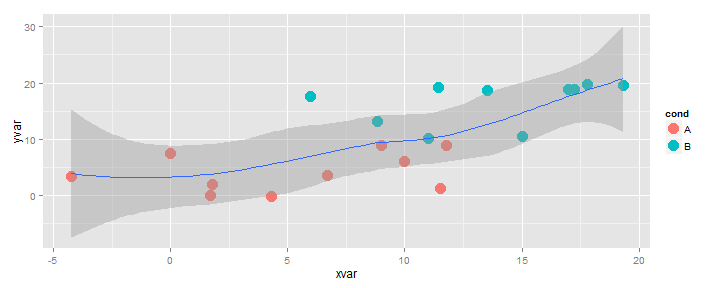
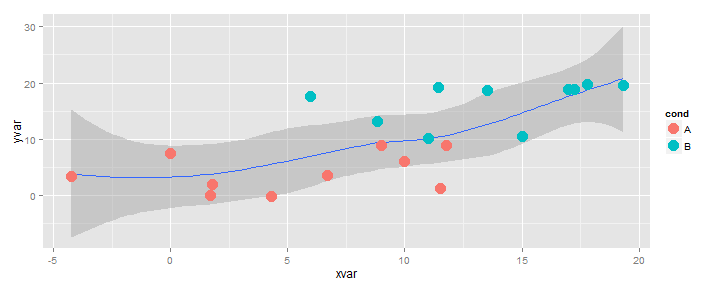
working tooltips and near completion of first draft

diff --git a/index.html b/index.html
@@ -239,13 +239,13 @@ dat &lt;- data.frame(cond = rep(c(&quot;A&quot;, &quot;B&quot;), each=10),
 #    B 19.319909163 19.647899863
 
 g4 &lt;- ggplot(dat, aes(x=xvar, y=yvar)) +
-  geom_point(shape=19, aes(color = cond), size=5) +    # Use hollow circles
-  geom_smooth()
+  geom_smooth() +  #we&#39;ll see why order is important
+  geom_point(shape=19, aes(color = cond), size=5) 
 
 g4
 </code></pre>
 
[2 lines of base64/hex data omitted]
 
 <p>There are lots of ways that we might add a tooltip if that is all we want.  However, I think we will want more than just tooltips, so a full d3-style data bind will be a fine way to achieve this extra functionality.  When we export our graphic, we will get an impercetibly SVG copy of our ggplot2 graphic above.  If you don&#39;t believe it is SVG, left-click on the graphic and Inspect Element.  I told you it was SVG.  If you still don&#39;t believe me, zoom in to 400% and see if you can tell a difference between SVG and png.</p>
 
@@ -261,7 +261,7 @@ cat(saveXML(g4.svg$svg))
 
 <p><svg xmlns="http://www.w3.org/2000/svg" xmlns:xlink="http://www.w3.org/1999/xlink" width="720px" height="288px" viewBox="0 0 720 288" version="1.1">
   <metadata xmlns:gridsvg="http://www.stat.auckland.ac.nz/~paul/R/gridSVG/">
-    <gridsvg:generator name="gridSVG" version="1.3-0" time="2013-08-05 17:13:15"/>
+    <gridsvg:generator name="gridSVG" version="1.3-0" time="2013-08-05 23:00:10"/>
     <gridsvg:argument name="name" value="plot1.svg"/>
     <gridsvg:argument name="exportCoords" value="none"/>
     <gridsvg:argument name="exportMappings" value="none"/>
@@ -336,35 +336,35 @@ cat(saveXML(g4.svg$svg))
                   <polyline id="panel.grid.major.x.polyline.83.1.6" points="639.19,37.28 639.19,273.6" stroke-width="1.06" stroke="rgb(255,255,255)" stroke-dasharray="none" stroke-linecap="butt" stroke-opacity="1" fill="none"/>
                 </g>
               </g>
-              <g id="geom_point.points.66.1" class="points grob gDesc">
-                <use id="geom_point.points.66.1.1" xlink:href="#gridSVG.pch19" x="68.94" y="110.21" width="14.17" height="14.17" transform="translate(-7.09,-7.09)" stroke="rgb(248,118,109)" fill="rgb(248,118,109)" font-size="14.17" stroke-width="0.53" stroke-opacity="1" fill-opacity="1"/>
-                <use id="geom_point.points.66.1.2" xlink:href="#gridSVG.pch19" x="208.95" y="90.5" width="14.17" height="14.17" transform="translate(-7.09,-7.09)" stroke="rgb(248,118,109)" fill="rgb(248,118,109)" font-size="14.17" stroke-width="0.53" stroke-opacity="1" fill-opacity="1"/>
-                <use id="geom_point.points.66.1.3" xlink:href="#gridSVG.pch19" x="270.57" y="89.93" width="14.17" height="14.17" transform="translate(-7.09,-7.09)" stroke="rgb(248,118,109)" fill="rgb(248,118,109)" font-size="14.17" stroke-width="0.53" stroke-opacity="1" fill-opacity="1"/>
-                <use id="geom_point.points.66.1.4" xlink:href="#gridSVG.pch19" x="210.79" y="102.25" width="14.17" height="14.17" transform="translate(-7.09,-7.09)" stroke="rgb(248,118,109)" fill="rgb(248,118,109)" font-size="14.17" stroke-width="0.53" stroke-opacity="1" fill-opacity="1"/>
-                <use id="geom_point.points.66.1.5" xlink:href="#gridSVG.pch19" x="440.21" y="97.37" width="14.17" height="14.17" transform="translate(-7.09,-7.09)" stroke="rgb(248,118,109)" fill="rgb(248,118,109)" font-size="14.17" stroke-width="0.53" stroke-opacity="1" fill-opacity="1"/>
-                <use id="geom_point.points.66.1.6" xlink:href="#gridSVG.pch19" x="325.81" y="110.98" width="14.17" height="14.17" transform="translate(-7.09,-7.09)" stroke="rgb(248,118,109)" fill="rgb(248,118,109)" font-size="14.17" stroke-width="0.53" stroke-opacity="1" fill-opacity="1"/>
-                <use id="geom_point.points.66.1.7" xlink:href="#gridSVG.pch19" x="169.02" y="133.28" width="14.17" height="14.17" transform="translate(-7.09,-7.09)" stroke="rgb(248,118,109)" fill="rgb(248,118,109)" font-size="14.17" stroke-width="0.53" stroke-opacity="1" fill-opacity="1"/>
-                <use id="geom_point.points.66.1.8" xlink:href="#gridSVG.pch19" x="403.39" y="125.47" width="14.17" height="14.17" transform="translate(-7.09,-7.09)" stroke="rgb(248,118,109)" fill="rgb(248,118,109)" font-size="14.17" stroke-width="0.53" stroke-opacity="1" fill-opacity="1"/>
-                <use id="geom_point.points.66.1.9" xlink:href="#gridSVG.pch19" x="380.72" y="141.28" width="14.17" height="14.17" transform="translate(-7.09,-7.09)" stroke="rgb(248,118,109)" fill="rgb(248,118,109)" font-size="14.17" stroke-width="0.53" stroke-opacity="1" fill-opacity="1"/>
-                <use id="geom_point.points.66.1.10" xlink:href="#gridSVG.pch19" x="445.61" y="141.23" width="14.17" height="14.17" transform="translate(-7.09,-7.09)" stroke="rgb(248,118,109)" fill="rgb(248,118,109)" font-size="14.17" stroke-width="0.53" stroke-opacity="1" fill-opacity="1"/>
-                <use id="geom_point.points.66.1.11" xlink:href="#gridSVG.pch19" x="376.79" y="165.54" width="14.17" height="14.17" transform="translate(-7.09,-7.09)" stroke="rgb(0,191,196)" fill="rgb(0,191,196)" font-size="14.17" stroke-width="0.53" stroke-opacity="1" fill-opacity="1"/>
-                <use id="geom_point.points.66.1.12" xlink:href="#gridSVG.pch19" x="309.4" y="190.81" width="14.17" height="14.17" transform="translate(-7.09,-7.09)" stroke="rgb(0,191,196)" fill="rgb(0,191,196)" font-size="14.17" stroke-width="0.53" stroke-opacity="1" fill-opacity="1"/>
-                <use id="geom_point.points.66.1.13" xlink:href="#gridSVG.pch19" x="522.45" y="150.09" width="14.17" height="14.17" transform="translate(-7.09,-7.09)" stroke="rgb(0,191,196)" fill="rgb(0,191,196)" font-size="14.17" stroke-width="0.53" stroke-opacity="1" fill-opacity="1"/>
-                <use id="geom_point.points.66.1.14" xlink:href="#gridSVG.pch19" x="427.22" y="148.12" width="14.17" height="14.17" transform="translate(-7.09,-7.09)" stroke="rgb(0,191,196)" fill="rgb(0,191,196)" font-size="14.17" stroke-width="0.53" stroke-opacity="1" fill-opacity="1"/>
-                <use id="geom_point.points.66.1.15" xlink:href="#gridSVG.pch19" x="487.37" y="196.7" width="14.17" height="14.17" transform="translate(-7.09,-7.09)" stroke="rgb(0,191,196)" fill="rgb(0,191,196)" font-size="14.17" stroke-width="0.53" stroke-opacity="1" fill-opacity="1"/>
-                <use id="geom_point.points.66.1.16" xlink:href="#gridSVG.pch19" x="437.82" y="199.33" width="14.17" height="14.17" transform="translate(-7.09,-7.09)" stroke="rgb(0,191,196)" fill="rgb(0,191,196)" font-size="14.17" stroke-width="0.53" stroke-opacity="1" fill-opacity="1"/>
-                <use id="geom_point.points.66.1.17" xlink:href="#gridSVG.pch19" x="568.11" y="197.56" width="14.17" height="14.17" transform="translate(-7.09,-7.09)" stroke="rgb(0,191,196)" fill="rgb(0,191,196)" font-size="14.17" stroke-width="0.53" stroke-opacity="1" fill-opacity="1"/>
-                <use id="geom_point.points.66.1.18" xlink:href="#gridSVG.pch19" x="573.83" y="198.17" width="14.17" height="14.17" transform="translate(-7.09,-7.09)" stroke="rgb(0,191,196)" fill="rgb(0,191,196)" font-size="14.17" stroke-width="0.53" stroke-opacity="1" fill-opacity="1"/>
-                <use id="geom_point.points.66.1.19" xlink:href="#gridSVG.pch19" x="587.31" y="202.6" width="14.17" height="14.17" transform="translate(-7.09,-7.09)" stroke="rgb(0,191,196)" fill="rgb(0,191,196)" font-size="14.17" stroke-width="0.53" stroke-opacity="1" fill-opacity="1"/>
-                <use id="geom_point.points.66.1.20" xlink:href="#gridSVG.pch19" x="623.2" y="202.2" width="14.17" height="14.17" transform="translate(-7.09,-7.09)" stroke="rgb(0,191,196)" fill="rgb(0,191,196)" font-size="14.17" stroke-width="0.53" stroke-opacity="1" fill-opacity="1"/>
+              <g id="smooths.gTree.69.1" class="gTree grob gDesc">
+                <g id="geom_ribbon.polygon.66.1" class="polygon grob gDesc">
+                  <polygon id="geom_ribbon.polygon.66.1.1" points="68.94,177.15 75.95,172.15 82.97,167.52 89.98,163.26 97,159.37 104.02,155.86 111.03,152.73 118.05,149.98 125.06,147.61 132.08,145.62 139.1,143.99 146.11,142.72 153.13,141.78 160.14,141.15 167.16,140.79 174.18,140.69 181.19,140.8 188.21,141.09 195.22,141.53 202.24,142.09 209.26,142.75 216.27,143.47 223.29,144.26 230.3,145.21 237.32,146.38 244.34,147.82 251.35,149.52 258.37,151.41 265.39,153.38 272.4,155.26 279.42,156.88 286.43,158.22 293.45,159.33 300.47,160.26 307.48,161.09 314.5,161.88 321.51,162.7 328.53,163.6 335.55,164.62 342.56,165.76 349.58,166.99 356.59,168.24 363.61,169.45 370.63,170.52 377.64,171.35 384.66,171.47 391.67,171.32 398.69,171.55 405.71,172.21 412.72,172.59 419.74,172.95 426.75,173.71 433.77,174.97 440.79,176.54 447.8,178.25 454.82,180.3 461.83,182.92 468.85,186.07 475.87,189.47 482.88,192.65 489.9,195.18 496.91,197.44 503.93,199.63 510.95,201.76 517.96,203.84 524.98,205.89 531.99,207.93 539.01,209.98 546.03,212.05 553.04,214.19 560.06,216.45 567.08,218.93 574.09,221.75 581.11,225.15 588.12,229.32 595.14,234.35 602.16,240.26 609.17,247.02 616.19,254.57 623.2,262.86 623.2,154.69 616.19,158.39 609.17,161.38 602.16,163.57 595.14,164.91 588.12,165.37 581.11,164.96 574.09,163.75 567.08,161.85 560.06,159.44 553.04,156.68 546.03,153.71 539.01,150.62 531.99,147.49 524.98,144.39 517.96,141.38 510.95,138.52 503.93,135.86 496.91,133.45 489.9,131.37 482.88,129.76 475.87,128.81 468.85,128.13 461.83,127.36 454.82,126.29 447.8,125 440.79,123.77 433.77,123 426.75,122.5 419.74,121.84 412.72,120.86 405.71,119.68 398.69,118.8 391.67,118.45 384.66,117.89 377.64,116.79 370.63,115.4 363.61,114.06 356.59,112.69 349.58,111.22 342.56,109.6 335.55,107.79 328.53,105.8 321.51,103.64 314.5,101.37 307.48,99.07 300.47,96.82 293.45,94.72 286.43,92.87 279.42,91.34 272.4,90.2 265.39,89.4 258.37,88.64 251.35,87.8 244.34,86.83 237.32,85.72 230.3,84.52 223.29,83.33 216.27,82.28 209.26,81.49 202.24,80.91 195.22,80.36 188.21,79.8 181.19,79.21 174.18,78.57 167.16,77.85 160.14,77.01 153.13,76.02 146.11,74.86 139.1,73.51 132.08,71.96 125.06,70.18 118.05,68.17 111.03,65.94 104.02,63.49 97,60.81 89.98,57.92 82.97,54.82 75.95,51.52 68.94,48.02" fill="rgb(153,153,153)" stroke="none" stroke-width="1.06" stroke-dasharray="none" stroke-opacity="0" fill-opacity="0.4"/>
+                </g>
+                <g id="GRID.polyline.67.1" class="polyline grob gDesc">
+                  <polyline id="GRID.polyline.67.1.1" points="68.94,112.59 75.95,111.84 82.97,111.17 89.98,110.59 97,110.09 104.02,109.68 111.03,109.34 118.05,109.08 125.06,108.9 132.08,108.79 139.1,108.75 146.11,108.79 153.13,108.9 160.14,109.08 167.16,109.32 174.18,109.63 181.19,110.01 188.21,110.44 195.22,110.94 202.24,111.5 209.26,112.12 216.27,112.87 223.29,113.8 230.3,114.87 237.32,116.05 244.34,117.33 251.35,118.66 258.37,120.02 265.39,121.39 272.4,122.73 279.42,124.11 286.43,125.55 293.45,127.03 300.47,128.54 307.48,130.08 314.5,131.62 321.51,133.17 328.53,134.7 335.55,136.21 342.56,137.68 349.58,139.1 356.59,140.46 363.61,141.75 370.63,142.96 377.64,144.07 384.66,144.68 391.67,144.89 398.69,145.17 405.71,145.94 412.72,146.72 419.74,147.4 426.75,148.11 433.77,148.98 440.79,150.15 447.8,151.62 454.82,153.3 461.83,155.14 468.85,157.1 475.87,159.14 482.88,161.21 489.9,163.28 496.91,165.45 503.93,167.74 510.95,170.14 517.96,172.61 524.98,175.14 531.99,177.71 539.01,180.3 546.03,182.88 553.04,185.44 560.06,187.95 567.08,190.39 574.09,192.75 581.11,195.05 588.12,197.35 595.14,199.63 602.16,201.91 609.17,204.2 616.19,206.48 623.2,208.77" stroke="rgb(51,102,255)" fill="none" stroke-width="1.06" stroke-dasharray="none" stroke-linecap="butt" stroke-linejoin="round" stroke-miterlimit="1" stroke-opacity="1" fill-opacity="1"/>
+                </g>
               </g>
-              <g id="smooths.gTree.71.1" class="gTree grob gDesc">
-                <g id="geom_ribbon.polygon.68.1" class="polygon grob gDesc">
-                  <polygon id="geom_ribbon.polygon.68.1.1" points="68.94,177.15 75.95,172.15 82.97,167.52 89.98,163.26 97,159.37 104.02,155.86 111.03,152.73 118.05,149.98 125.06,147.61 132.08,145.62 139.1,143.99 146.11,142.72 153.13,141.78 160.14,141.15 167.16,140.79 174.18,140.69 181.19,140.8 188.21,141.09 195.22,141.53 202.24,142.09 209.26,142.75 216.27,143.47 223.29,144.26 230.3,145.21 237.32,146.38 244.34,147.82 251.35,149.52 258.37,151.41 265.39,153.38 272.4,155.26 279.42,156.88 286.43,158.22 293.45,159.33 300.47,160.26 307.48,161.09 314.5,161.88 321.51,162.7 328.53,163.6 335.55,164.62 342.56,165.76 349.58,166.99 356.59,168.24 363.61,169.45 370.63,170.52 377.64,171.35 384.66,171.47 391.67,171.32 398.69,171.55 405.71,172.21 412.72,172.59 419.74,172.95 426.75,173.71 433.77,174.97 440.79,176.54 447.8,178.25 454.82,180.3 461.83,182.92 468.85,186.07 475.87,189.47 482.88,192.65 489.9,195.18 496.91,197.44 503.93,199.63 510.95,201.76 517.96,203.84 524.98,205.89 531.99,207.93 539.01,209.98 546.03,212.05 553.04,214.19 560.06,216.45 567.08,218.93 574.09,221.75 581.11,225.15 588.12,229.32 595.14,234.35 602.16,240.26 609.17,247.02 616.19,254.57 623.2,262.86 623.2,154.69 616.19,158.39 609.17,161.38 602.16,163.57 595.14,164.91 588.12,165.37 581.11,164.96 574.09,163.75 567.08,161.85 560.06,159.44 553.04,156.68 546.03,153.71 539.01,150.62 531.99,147.49 524.98,144.39 517.96,141.38 510.95,138.52 503.93,135.86 496.91,133.45 489.9,131.37 482.88,129.76 475.87,128.81 468.85,128.13 461.83,127.36 454.82,126.29 447.8,125 440.79,123.77 433.77,123 426.75,122.5 419.74,121.84 412.72,120.86 405.71,119.68 398.69,118.8 391.67,118.45 384.66,117.89 377.64,116.79 370.63,115.4 363.61,114.06 356.59,112.69 349.58,111.22 342.56,109.6 335.55,107.79 328.53,105.8 321.51,103.64 314.5,101.37 307.48,99.07 300.47,96.82 293.45,94.72 286.43,92.87 279.42,91.34 272.4,90.2 265.39,89.4 258.37,88.64 251.35,87.8 244.34,86.83 237.32,85.72 230.3,84.52 223.29,83.33 216.27,82.28 209.26,81.49 202.24,80.91 195.22,80.36 188.21,79.8 181.19,79.21 174.18,78.57 167.16,77.85 160.14,77.01 153.13,76.02 146.11,74.86 139.1,73.51 132.08,71.96 125.06,70.18 118.05,68.17 111.03,65.94 104.02,63.49 97,60.81 89.98,57.92 82.97,54.82 75.95,51.52 68.94,48.02" fill="rgb(153,153,153)" stroke="none" stroke-width="1.06" stroke-dasharray="none" stroke-opacity="0" fill-opacity="0.4"/>
-                </g>
-                <g id="GRID.polyline.69.1" class="polyline grob gDesc">
-                  <polyline id="GRID.polyline.69.1.1" points="68.94,112.59 75.95,111.84 82.97,111.17 89.98,110.59 97,110.09 104.02,109.68 111.03,109.34 118.05,109.08 125.06,108.9 132.08,108.79 139.1,108.75 146.11,108.79 153.13,108.9 160.14,109.08 167.16,109.32 174.18,109.63 181.19,110.01 188.21,110.44 195.22,110.94 202.24,111.5 209.26,112.12 216.27,112.87 223.29,113.8 230.3,114.87 237.32,116.05 244.34,117.33 251.35,118.66 258.37,120.02 265.39,121.39 272.4,122.73 279.42,124.11 286.43,125.55 293.45,127.03 300.47,128.54 307.48,130.08 314.5,131.62 321.51,133.17 328.53,134.7 335.55,136.21 342.56,137.68 349.58,139.1 356.59,140.46 363.61,141.75 370.63,142.96 377.64,144.07 384.66,144.68 391.67,144.89 398.69,145.17 405.71,145.94 412.72,146.72 419.74,147.4 426.75,148.11 433.77,148.98 440.79,150.15 447.8,151.62 454.82,153.3 461.83,155.14 468.85,157.1 475.87,159.14 482.88,161.21 489.9,163.28 496.91,165.45 503.93,167.74 510.95,170.14 517.96,172.61 524.98,175.14 531.99,177.71 539.01,180.3 546.03,182.88 553.04,185.44 560.06,187.95 567.08,190.39 574.09,192.75 581.11,195.05 588.12,197.35 595.14,199.63 602.16,201.91 609.17,204.2 616.19,206.48 623.2,208.77" stroke="rgb(51,102,255)" fill="none" stroke-width="1.06" stroke-dasharray="none" stroke-linecap="butt" stroke-linejoin="round" stroke-miterlimit="1" stroke-opacity="1" fill-opacity="1"/>
-                </g>
+              <g id="geom_point.points.71.1" class="points grob gDesc">
+                <use id="geom_point.points.71.1.1" xlink:href="#gridSVG.pch19" x="68.94" y="110.21" width="14.17" height="14.17" transform="translate(-7.09,-7.09)" stroke="rgb(248,118,109)" fill="rgb(248,118,109)" font-size="14.17" stroke-width="0.53" stroke-opacity="1" fill-opacity="1"/>
+                <use id="geom_point.points.71.1.2" xlink:href="#gridSVG.pch19" x="208.95" y="90.5" width="14.17" height="14.17" transform="translate(-7.09,-7.09)" stroke="rgb(248,118,109)" fill="rgb(248,118,109)" font-size="14.17" stroke-width="0.53" stroke-opacity="1" fill-opacity="1"/>
+                <use id="geom_point.points.71.1.3" xlink:href="#gridSVG.pch19" x="270.57" y="89.93" width="14.17" height="14.17" transform="translate(-7.09,-7.09)" stroke="rgb(248,118,109)" fill="rgb(248,118,109)" font-size="14.17" stroke-width="0.53" stroke-opacity="1" fill-opacity="1"/>
+                <use id="geom_point.points.71.1.4" xlink:href="#gridSVG.pch19" x="210.79" y="102.25" width="14.17" height="14.17" transform="translate(-7.09,-7.09)" stroke="rgb(248,118,109)" fill="rgb(248,118,109)" font-size="14.17" stroke-width="0.53" stroke-opacity="1" fill-opacity="1"/>
+                <use id="geom_point.points.71.1.5" xlink:href="#gridSVG.pch19" x="440.21" y="97.37" width="14.17" height="14.17" transform="translate(-7.09,-7.09)" stroke="rgb(248,118,109)" fill="rgb(248,118,109)" font-size="14.17" stroke-width="0.53" stroke-opacity="1" fill-opacity="1"/>
+                <use id="geom_point.points.71.1.6" xlink:href="#gridSVG.pch19" x="325.81" y="110.98" width="14.17" height="14.17" transform="translate(-7.09,-7.09)" stroke="rgb(248,118,109)" fill="rgb(248,118,109)" font-size="14.17" stroke-width="0.53" stroke-opacity="1" fill-opacity="1"/>
+                <use id="geom_point.points.71.1.7" xlink:href="#gridSVG.pch19" x="169.02" y="133.28" width="14.17" height="14.17" transform="translate(-7.09,-7.09)" stroke="rgb(248,118,109)" fill="rgb(248,118,109)" font-size="14.17" stroke-width="0.53" stroke-opacity="1" fill-opacity="1"/>
+                <use id="geom_point.points.71.1.8" xlink:href="#gridSVG.pch19" x="403.39" y="125.47" width="14.17" height="14.17" transform="translate(-7.09,-7.09)" stroke="rgb(248,118,109)" fill="rgb(248,118,109)" font-size="14.17" stroke-width="0.53" stroke-opacity="1" fill-opacity="1"/>
+                <use id="geom_point.points.71.1.9" xlink:href="#gridSVG.pch19" x="380.72" y="141.28" width="14.17" height="14.17" transform="translate(-7.09,-7.09)" stroke="rgb(248,118,109)" fill="rgb(248,118,109)" font-size="14.17" stroke-width="0.53" stroke-opacity="1" fill-opacity="1"/>
+                <use id="geom_point.points.71.1.10" xlink:href="#gridSVG.pch19" x="445.61" y="141.23" width="14.17" height="14.17" transform="translate(-7.09,-7.09)" stroke="rgb(248,118,109)" fill="rgb(248,118,109)" font-size="14.17" stroke-width="0.53" stroke-opacity="1" fill-opacity="1"/>
+                <use id="geom_point.points.71.1.11" xlink:href="#gridSVG.pch19" x="376.79" y="165.54" width="14.17" height="14.17" transform="translate(-7.09,-7.09)" stroke="rgb(0,191,196)" fill="rgb(0,191,196)" font-size="14.17" stroke-width="0.53" stroke-opacity="1" fill-opacity="1"/>
+                <use id="geom_point.points.71.1.12" xlink:href="#gridSVG.pch19" x="309.4" y="190.81" width="14.17" height="14.17" transform="translate(-7.09,-7.09)" stroke="rgb(0,191,196)" fill="rgb(0,191,196)" font-size="14.17" stroke-width="0.53" stroke-opacity="1" fill-opacity="1"/>
+                <use id="geom_point.points.71.1.13" xlink:href="#gridSVG.pch19" x="522.45" y="150.09" width="14.17" height="14.17" transform="translate(-7.09,-7.09)" stroke="rgb(0,191,196)" fill="rgb(0,191,196)" font-size="14.17" stroke-width="0.53" stroke-opacity="1" fill-opacity="1"/>
+                <use id="geom_point.points.71.1.14" xlink:href="#gridSVG.pch19" x="427.22" y="148.12" width="14.17" height="14.17" transform="translate(-7.09,-7.09)" stroke="rgb(0,191,196)" fill="rgb(0,191,196)" font-size="14.17" stroke-width="0.53" stroke-opacity="1" fill-opacity="1"/>
+                <use id="geom_point.points.71.1.15" xlink:href="#gridSVG.pch19" x="487.37" y="196.7" width="14.17" height="14.17" transform="translate(-7.09,-7.09)" stroke="rgb(0,191,196)" fill="rgb(0,191,196)" font-size="14.17" stroke-width="0.53" stroke-opacity="1" fill-opacity="1"/>
+                <use id="geom_point.points.71.1.16" xlink:href="#gridSVG.pch19" x="437.82" y="199.33" width="14.17" height="14.17" transform="translate(-7.09,-7.09)" stroke="rgb(0,191,196)" fill="rgb(0,191,196)" font-size="14.17" stroke-width="0.53" stroke-opacity="1" fill-opacity="1"/>
+                <use id="geom_point.points.71.1.17" xlink:href="#gridSVG.pch19" x="568.11" y="197.56" width="14.17" height="14.17" transform="translate(-7.09,-7.09)" stroke="rgb(0,191,196)" fill="rgb(0,191,196)" font-size="14.17" stroke-width="0.53" stroke-opacity="1" fill-opacity="1"/>
+                <use id="geom_point.points.71.1.18" xlink:href="#gridSVG.pch19" x="573.83" y="198.17" width="14.17" height="14.17" transform="translate(-7.09,-7.09)" stroke="rgb(0,191,196)" fill="rgb(0,191,196)" font-size="14.17" stroke-width="0.53" stroke-opacity="1" fill-opacity="1"/>
+                <use id="geom_point.points.71.1.19" xlink:href="#gridSVG.pch19" x="587.31" y="202.6" width="14.17" height="14.17" transform="translate(-7.09,-7.09)" stroke="rgb(0,191,196)" fill="rgb(0,191,196)" font-size="14.17" stroke-width="0.53" stroke-opacity="1" fill-opacity="1"/>
+                <use id="geom_point.points.71.1.20" xlink:href="#gridSVG.pch19" x="623.2" y="202.2" width="14.17" height="14.17" transform="translate(-7.09,-7.09)" stroke="rgb(0,191,196)" fill="rgb(0,191,196)" font-size="14.17" stroke-width="0.53" stroke-opacity="1" fill-opacity="1"/>
               </g>
             </g>
           </g>
@@ -605,8 +605,8 @@ cat(saveXML(g4.svg$svg))
   ..$ xvar: num [1:20] -4.25 1.7 4.32 1.78 11.54 &hellip;
   ..$ yvar: num [1:20] 3.47316 0.00594 -0.09425 2.07281 1.21544 &hellip;
  $ layers     :List of 2
-  ..$ :Classes &#39;proto&#39;, &#39;environment&#39; <environment: 0x0000000009526f20> 
-  ..$ :Classes &#39;proto&#39;, &#39;environment&#39; <environment: 0x00000000095f7598> 
+  ..$ :Classes &#39;proto&#39;, &#39;environment&#39; <environment: 0x0000000008e396b0> 
+  ..$ :Classes &#39;proto&#39;, &#39;environment&#39; <environment: 0x0000000008f09b30> 
  $ scales     :Reference class &#39;Scales&#39; [package &ldquo;ggplot2&rdquo;] with 1 fields
   ..$ scales: list()
   ..and 21 methods, of which 9 are possibly relevant:
@@ -677,25 +677,42 @@ cond   xvar     yvar
  scatterPoints = d3.select(".points").selectAll("use");
  scatterPoints.data(dataToBind) </script>
 
+<pre><code class="r">cat(&#39;&lt;script&gt;\n&#39;,
+&#39;scatterPoints  
+    .on(&quot;mouseover&quot;, function(d) {      
+      //Create the tooltip label
+      d3.select(this.parentNode).append(&quot;text&quot;)
+        .attr(&quot;id&quot;,&quot;tooltip&quot;)
+        .attr(&quot;x&quot;,d3.select(this).attr(&quot;x&quot;))
+        .attr(&quot;y&quot;,-d3.select(this).attr(&quot;y&quot;))      
+        .attr(&quot;dy&quot;,&quot;0.35em&quot;)
+        .attr(&quot;transform&quot;,&quot;scale(1,-1)&quot;)
+        .text(&quot;x:&quot; + d.value.xvar + &quot; | y:&quot; + d.value.yvar);
+    })              
+    .on(&quot;mouseout&quot;, function(d) {       
+        d3.select(&quot;#tooltip&quot;).remove();  
+    });&#39;,
+&#39;&lt;/script&gt;&#39;
+)
+</code></pre>
 
 <script>
-scatterPoints  
+ scatterPoints  
     .on("mouseover", function(d) {      
       //Create the tooltip label
-      d3.select(this.parentNode).append("rect")
+      d3.select(this.parentNode).append("text")
         .attr("id","tooltip")
         .attr("x",d3.select(this).attr("x"))
-        .attr("y",d3.select(this).attr("y"))
-        .attr("width",10)
-        .attr("height",10)
-        .attr("fill","blue");
-        //.attr("text-anchor", "middle")
-        //.text(d);
+        .attr("y",-d3.select(this).attr("y"))      
+        .attr("dy","0.35em")
+        .attr("transform","scale(1,-1)")
+        .text("x:" + d.value.xvar + " | y:" + d.value.yvar);
     })              
     .on("mouseout", function(d) {       
         d3.select("#tooltip").remove();  
-    });
-</script>
+    }); </script>
+
+<p>Not perfect, but I think our progress is admirable. We can save the fancier tooltips and more interactivity for later.</p>
 
 </body>
 

diff --git a/index.md b/index.md
@@ -63,8 +63,8 @@ dat <- data.frame(cond = rep(c("A", "B"), each=10),
 #    B 19.319909163 19.647899863
 
 g4 <- ggplot(dat, aes(x=xvar, y=yvar)) +
-  geom_point(shape=19, aes(color = cond), size=5) +    # Use hollow circles
-  geom_smooth()
+  geom_smooth() +  #we'll see why order is important
+  geom_point(shape=19, aes(color = cond), size=5) 
 
 g4
 ```
@@ -88,7 +88,7 @@ cat(saveXML(g4.svg$svg))
 
 <svg xmlns="http://www.w3.org/2000/svg" xmlns:xlink="http://www.w3.org/1999/xlink" width="720px" height="288px" viewBox="0 0 720 288" version="1.1">
   <metadata xmlns:gridsvg="http://www.stat.auckland.ac.nz/~paul/R/gridSVG/">
-    <gridsvg:generator name="gridSVG" version="1.3-0" time="2013-08-05 17:13:15"/>
+    <gridsvg:generator name="gridSVG" version="1.3-0" time="2013-08-05 23:00:10"/>
     <gridsvg:argument name="name" value="plot1.svg"/>
     <gridsvg:argument name="exportCoords" value="none"/>
     <gridsvg:argument name="exportMappings" value="none"/>
@@ -163,35 +163,35 @@ cat(saveXML(g4.svg$svg))
                   <polyline id="panel.grid.major.x.polyline.83.1.6" points="639.19,37.28 639.19,273.6" stroke-width="1.06" stroke="rgb(255,255,255)" stroke-dasharray="none" stroke-linecap="butt" stroke-opacity="1" fill="none"/>
                 </g>
               </g>
-              <g id="geom_point.points.66.1" class="points grob gDesc">
-                <use id="geom_point.points.66.1.1" xlink:href="#gridSVG.pch19" x="68.94" y="110.21" width="14.17" height="14.17" transform="translate(-7.09,-7.09)" stroke="rgb(248,118,109)" fill="rgb(248,118,109)" font-size="14.17" stroke-width="0.53" stroke-opacity="1" fill-opacity="1"/>
-                <use id="geom_point.points.66.1.2" xlink:href="#gridSVG.pch19" x="208.95" y="90.5" width="14.17" height="14.17" transform="translate(-7.09,-7.09)" stroke="rgb(248,118,109)" fill="rgb(248,118,109)" font-size="14.17" stroke-width="0.53" stroke-opacity="1" fill-opacity="1"/>
-                <use id="geom_point.points.66.1.3" xlink:href="#gridSVG.pch19" x="270.57" y="89.93" width="14.17" height="14.17" transform="translate(-7.09,-7.09)" stroke="rgb(248,118,109)" fill="rgb(248,118,109)" font-size="14.17" stroke-width="0.53" stroke-opacity="1" fill-opacity="1"/>
-                <use id="geom_point.points.66.1.4" xlink:href="#gridSVG.pch19" x="210.79" y="102.25" width="14.17" height="14.17" transform="translate(-7.09,-7.09)" stroke="rgb(248,118,109)" fill="rgb(248,118,109)" font-size="14.17" stroke-width="0.53" stroke-opacity="1" fill-opacity="1"/>
-                <use id="geom_point.points.66.1.5" xlink:href="#gridSVG.pch19" x="440.21" y="97.37" width="14.17" height="14.17" transform="translate(-7.09,-7.09)" stroke="rgb(248,118,109)" fill="rgb(248,118,109)" font-size="14.17" stroke-width="0.53" stroke-opacity="1" fill-opacity="1"/>
-                <use id="geom_point.points.66.1.6" xlink:href="#gridSVG.pch19" x="325.81" y="110.98" width="14.17" height="14.17" transform="translate(-7.09,-7.09)" stroke="rgb(248,118,109)" fill="rgb(248,118,109)" font-size="14.17" stroke-width="0.53" stroke-opacity="1" fill-opacity="1"/>
-                <use id="geom_point.points.66.1.7" xlink:href="#gridSVG.pch19" x="169.02" y="133.28" width="14.17" height="14.17" transform="translate(-7.09,-7.09)" stroke="rgb(248,118,109)" fill="rgb(248,118,109)" font-size="14.17" stroke-width="0.53" stroke-opacity="1" fill-opacity="1"/>
-                <use id="geom_point.points.66.1.8" xlink:href="#gridSVG.pch19" x="403.39" y="125.47" width="14.17" height="14.17" transform="translate(-7.09,-7.09)" stroke="rgb(248,118,109)" fill="rgb(248,118,109)" font-size="14.17" stroke-width="0.53" stroke-opacity="1" fill-opacity="1"/>
-                <use id="geom_point.points.66.1.9" xlink:href="#gridSVG.pch19" x="380.72" y="141.28" width="14.17" height="14.17" transform="translate(-7.09,-7.09)" stroke="rgb(248,118,109)" fill="rgb(248,118,109)" font-size="14.17" stroke-width="0.53" stroke-opacity="1" fill-opacity="1"/>
-                <use id="geom_point.points.66.1.10" xlink:href="#gridSVG.pch19" x="445.61" y="141.23" width="14.17" height="14.17" transform="translate(-7.09,-7.09)" stroke="rgb(248,118,109)" fill="rgb(248,118,109)" font-size="14.17" stroke-width="0.53" stroke-opacity="1" fill-opacity="1"/>
-                <use id="geom_point.points.66.1.11" xlink:href="#gridSVG.pch19" x="376.79" y="165.54" width="14.17" height="14.17" transform="translate(-7.09,-7.09)" stroke="rgb(0,191,196)" fill="rgb(0,191,196)" font-size="14.17" stroke-width="0.53" stroke-opacity="1" fill-opacity="1"/>
-                <use id="geom_point.points.66.1.12" xlink:href="#gridSVG.pch19" x="309.4" y="190.81" width="14.17" height="14.17" transform="translate(-7.09,-7.09)" stroke="rgb(0,191,196)" fill="rgb(0,191,196)" font-size="14.17" stroke-width="0.53" stroke-opacity="1" fill-opacity="1"/>
-                <use id="geom_point.points.66.1.13" xlink:href="#gridSVG.pch19" x="522.45" y="150.09" width="14.17" height="14.17" transform="translate(-7.09,-7.09)" stroke="rgb(0,191,196)" fill="rgb(0,191,196)" font-size="14.17" stroke-width="0.53" stroke-opacity="1" fill-opacity="1"/>
-                <use id="geom_point.points.66.1.14" xlink:href="#gridSVG.pch19" x="427.22" y="148.12" width="14.17" height="14.17" transform="translate(-7.09,-7.09)" stroke="rgb(0,191,196)" fill="rgb(0,191,196)" font-size="14.17" stroke-width="0.53" stroke-opacity="1" fill-opacity="1"/>
-                <use id="geom_point.points.66.1.15" xlink:href="#gridSVG.pch19" x="487.37" y="196.7" width="14.17" height="14.17" transform="translate(-7.09,-7.09)" stroke="rgb(0,191,196)" fill="rgb(0,191,196)" font-size="14.17" stroke-width="0.53" stroke-opacity="1" fill-opacity="1"/>
-                <use id="geom_point.points.66.1.16" xlink:href="#gridSVG.pch19" x="437.82" y="199.33" width="14.17" height="14.17" transform="translate(-7.09,-7.09)" stroke="rgb(0,191,196)" fill="rgb(0,191,196)" font-size="14.17" stroke-width="0.53" stroke-opacity="1" fill-opacity="1"/>
-                <use id="geom_point.points.66.1.17" xlink:href="#gridSVG.pch19" x="568.11" y="197.56" width="14.17" height="14.17" transform="translate(-7.09,-7.09)" stroke="rgb(0,191,196)" fill="rgb(0,191,196)" font-size="14.17" stroke-width="0.53" stroke-opacity="1" fill-opacity="1"/>
-                <use id="geom_point.points.66.1.18" xlink:href="#gridSVG.pch19" x="573.83" y="198.17" width="14.17" height="14.17" transform="translate(-7.09,-7.09)" stroke="rgb(0,191,196)" fill="rgb(0,191,196)" font-size="14.17" stroke-width="0.53" stroke-opacity="1" fill-opacity="1"/>
-                <use id="geom_point.points.66.1.19" xlink:href="#gridSVG.pch19" x="587.31" y="202.6" width="14.17" height="14.17" transform="translate(-7.09,-7.09)" stroke="rgb(0,191,196)" fill="rgb(0,191,196)" font-size="14.17" stroke-width="0.53" stroke-opacity="1" fill-opacity="1"/>
-                <use id="geom_point.points.66.1.20" xlink:href="#gridSVG.pch19" x="623.2" y="202.2" width="14.17" height="14.17" transform="translate(-7.09,-7.09)" stroke="rgb(0,191,196)" fill="rgb(0,191,196)" font-size="14.17" stroke-width="0.53" stroke-opacity="1" fill-opacity="1"/>
+              <g id="smooths.gTree.69.1" class="gTree grob gDesc">
+                <g id="geom_ribbon.polygon.66.1" class="polygon grob gDesc">
+                  <polygon id="geom_ribbon.polygon.66.1.1" points="68.94,177.15 75.95,172.15 82.97,167.52 89.98,163.26 97,159.37 104.02,155.86 111.03,152.73 118.05,149.98 125.06,147.61 132.08,145.62 139.1,143.99 146.11,142.72 153.13,141.78 160.14,141.15 167.16,140.79 174.18,140.69 181.19,140.8 188.21,141.09 195.22,141.53 202.24,142.09 209.26,142.75 216.27,143.47 223.29,144.26 230.3,145.21 237.32,146.38 244.34,147.82 251.35,149.52 258.37,151.41 265.39,153.38 272.4,155.26 279.42,156.88 286.43,158.22 293.45,159.33 300.47,160.26 307.48,161.09 314.5,161.88 321.51,162.7 328.53,163.6 335.55,164.62 342.56,165.76 349.58,166.99 356.59,168.24 363.61,169.45 370.63,170.52 377.64,171.35 384.66,171.47 391.67,171.32 398.69,171.55 405.71,172.21 412.72,172.59 419.74,172.95 426.75,173.71 433.77,174.97 440.79,176.54 447.8,178.25 454.82,180.3 461.83,182.92 468.85,186.07 475.87,189.47 482.88,192.65 489.9,195.18 496.91,197.44 503.93,199.63 510.95,201.76 517.96,203.84 524.98,205.89 531.99,207.93 539.01,209.98 546.03,212.05 553.04,214.19 560.06,216.45 567.08,218.93 574.09,221.75 581.11,225.15 588.12,229.32 595.14,234.35 602.16,240.26 609.17,247.02 616.19,254.57 623.2,262.86 623.2,154.69 616.19,158.39 609.17,161.38 602.16,163.57 595.14,164.91 588.12,165.37 581.11,164.96 574.09,163.75 567.08,161.85 560.06,159.44 553.04,156.68 546.03,153.71 539.01,150.62 531.99,147.49 524.98,144.39 517.96,141.38 510.95,138.52 503.93,135.86 496.91,133.45 489.9,131.37 482.88,129.76 475.87,128.81 468.85,128.13 461.83,127.36 454.82,126.29 447.8,125 440.79,123.77 433.77,123 426.75,122.5 419.74,121.84 412.72,120.86 405.71,119.68 398.69,118.8 391.67,118.45 384.66,117.89 377.64,116.79 370.63,115.4 363.61,114.06 356.59,112.69 349.58,111.22 342.56,109.6 335.55,107.79 328.53,105.8 321.51,103.64 314.5,101.37 307.48,99.07 300.47,96.82 293.45,94.72 286.43,92.87 279.42,91.34 272.4,90.2 265.39,89.4 258.37,88.64 251.35,87.8 244.34,86.83 237.32,85.72 230.3,84.52 223.29,83.33 216.27,82.28 209.26,81.49 202.24,80.91 195.22,80.36 188.21,79.8 181.19,79.21 174.18,78.57 167.16,77.85 160.14,77.01 153.13,76.02 146.11,74.86 139.1,73.51 132.08,71.96 125.06,70.18 118.05,68.17 111.03,65.94 104.02,63.49 97,60.81 89.98,57.92 82.97,54.82 75.95,51.52 68.94,48.02" fill="rgb(153,153,153)" stroke="none" stroke-width="1.06" stroke-dasharray="none" stroke-opacity="0" fill-opacity="0.4"/>
+                </g>
+                <g id="GRID.polyline.67.1" class="polyline grob gDesc">
+                  <polyline id="GRID.polyline.67.1.1" points="68.94,112.59 75.95,111.84 82.97,111.17 89.98,110.59 97,110.09 104.02,109.68 111.03,109.34 118.05,109.08 125.06,108.9 132.08,108.79 139.1,108.75 146.11,108.79 153.13,108.9 160.14,109.08 167.16,109.32 174.18,109.63 181.19,110.01 188.21,110.44 195.22,110.94 202.24,111.5 209.26,112.12 216.27,112.87 223.29,113.8 230.3,114.87 237.32,116.05 244.34,117.33 251.35,118.66 258.37,120.02 265.39,121.39 272.4,122.73 279.42,124.11 286.43,125.55 293.45,127.03 300.47,128.54 307.48,130.08 314.5,131.62 321.51,133.17 328.53,134.7 335.55,136.21 342.56,137.68 349.58,139.1 356.59,140.46 363.61,141.75 370.63,142.96 377.64,144.07 384.66,144.68 391.67,144.89 398.69,145.17 405.71,145.94 412.72,146.72 419.74,147.4 426.75,148.11 433.77,148.98 440.79,150.15 447.8,151.62 454.82,153.3 461.83,155.14 468.85,157.1 475.87,159.14 482.88,161.21 489.9,163.28 496.91,165.45 503.93,167.74 510.95,170.14 517.96,172.61 524.98,175.14 531.99,177.71 539.01,180.3 546.03,182.88 553.04,185.44 560.06,187.95 567.08,190.39 574.09,192.75 581.11,195.05 588.12,197.35 595.14,199.63 602.16,201.91 609.17,204.2 616.19,206.48 623.2,208.77" stroke="rgb(51,102,255)" fill="none" stroke-width="1.06" stroke-dasharray="none" stroke-linecap="butt" stroke-linejoin="round" stroke-miterlimit="1" stroke-opacity="1" fill-opacity="1"/>
+                </g>
               </g>
-              <g id="smooths.gTree.71.1" class="gTree grob gDesc">
-                <g id="geom_ribbon.polygon.68.1" class="polygon grob gDesc">
-                  <polygon id="geom_ribbon.polygon.68.1.1" points="68.94,177.15 75.95,172.15 82.97,167.52 89.98,163.26 97,159.37 104.02,155.86 111.03,152.73 118.05,149.98 125.06,147.61 132.08,145.62 139.1,143.99 146.11,142.72 153.13,141.78 160.14,141.15 167.16,140.79 174.18,140.69 181.19,140.8 188.21,141.09 195.22,141.53 202.24,142.09 209.26,142.75 216.27,143.47 223.29,144.26 230.3,145.21 237.32,146.38 244.34,147.82 251.35,149.52 258.37,151.41 265.39,153.38 272.4,155.26 279.42,156.88 286.43,158.22 293.45,159.33 300.47,160.26 307.48,161.09 314.5,161.88 321.51,162.7 328.53,163.6 335.55,164.62 342.56,165.76 349.58,166.99 356.59,168.24 363.61,169.45 370.63,170.52 377.64,171.35 384.66,171.47 391.67,171.32 398.69,171.55 405.71,172.21 412.72,172.59 419.74,172.95 426.75,173.71 433.77,174.97 440.79,176.54 447.8,178.25 454.82,180.3 461.83,182.92 468.85,186.07 475.87,189.47 482.88,192.65 489.9,195.18 496.91,197.44 503.93,199.63 510.95,201.76 517.96,203.84 524.98,205.89 531.99,207.93 539.01,209.98 546.03,212.05 553.04,214.19 560.06,216.45 567.08,218.93 574.09,221.75 581.11,225.15 588.12,229.32 595.14,234.35 602.16,240.26 609.17,247.02 616.19,254.57 623.2,262.86 623.2,154.69 616.19,158.39 609.17,161.38 602.16,163.57 595.14,164.91 588.12,165.37 581.11,164.96 574.09,163.75 567.08,161.85 560.06,159.44 553.04,156.68 546.03,153.71 539.01,150.62 531.99,147.49 524.98,144.39 517.96,141.38 510.95,138.52 503.93,135.86 496.91,133.45 489.9,131.37 482.88,129.76 475.87,128.81 468.85,128.13 461.83,127.36 454.82,126.29 447.8,125 440.79,123.77 433.77,123 426.75,122.5 419.74,121.84 412.72,120.86 405.71,119.68 398.69,118.8 391.67,118.45 384.66,117.89 377.64,116.79 370.63,115.4 363.61,114.06 356.59,112.69 349.58,111.22 342.56,109.6 335.55,107.79 328.53,105.8 321.51,103.64 314.5,101.37 307.48,99.07 300.47,96.82 293.45,94.72 286.43,92.87 279.42,91.34 272.4,90.2 265.39,89.4 258.37,88.64 251.35,87.8 244.34,86.83 237.32,85.72 230.3,84.52 223.29,83.33 216.27,82.28 209.26,81.49 202.24,80.91 195.22,80.36 188.21,79.8 181.19,79.21 174.18,78.57 167.16,77.85 160.14,77.01 153.13,76.02 146.11,74.86 139.1,73.51 132.08,71.96 125.06,70.18 118.05,68.17 111.03,65.94 104.02,63.49 97,60.81 89.98,57.92 82.97,54.82 75.95,51.52 68.94,48.02" fill="rgb(153,153,153)" stroke="none" stroke-width="1.06" stroke-dasharray="none" stroke-opacity="0" fill-opacity="0.4"/>
-                </g>
-                <g id="GRID.polyline.69.1" class="polyline grob gDesc">
-                  <polyline id="GRID.polyline.69.1.1" points="68.94,112.59 75.95,111.84 82.97,111.17 89.98,110.59 97,110.09 104.02,109.68 111.03,109.34 118.05,109.08 125.06,108.9 132.08,108.79 139.1,108.75 146.11,108.79 153.13,108.9 160.14,109.08 167.16,109.32 174.18,109.63 181.19,110.01 188.21,110.44 195.22,110.94 202.24,111.5 209.26,112.12 216.27,112.87 223.29,113.8 230.3,114.87 237.32,116.05 244.34,117.33 251.35,118.66 258.37,120.02 265.39,121.39 272.4,122.73 279.42,124.11 286.43,125.55 293.45,127.03 300.47,128.54 307.48,130.08 314.5,131.62 321.51,133.17 328.53,134.7 335.55,136.21 342.56,137.68 349.58,139.1 356.59,140.46 363.61,141.75 370.63,142.96 377.64,144.07 384.66,144.68 391.67,144.89 398.69,145.17 405.71,145.94 412.72,146.72 419.74,147.4 426.75,148.11 433.77,148.98 440.79,150.15 447.8,151.62 454.82,153.3 461.83,155.14 468.85,157.1 475.87,159.14 482.88,161.21 489.9,163.28 496.91,165.45 503.93,167.74 510.95,170.14 517.96,172.61 524.98,175.14 531.99,177.71 539.01,180.3 546.03,182.88 553.04,185.44 560.06,187.95 567.08,190.39 574.09,192.75 581.11,195.05 588.12,197.35 595.14,199.63 602.16,201.91 609.17,204.2 616.19,206.48 623.2,208.77" stroke="rgb(51,102,255)" fill="none" stroke-width="1.06" stroke-dasharray="none" stroke-linecap="butt" stroke-linejoin="round" stroke-miterlimit="1" stroke-opacity="1" fill-opacity="1"/>
-                </g>
+              <g id="geom_point.points.71.1" class="points grob gDesc">
+                <use id="geom_point.points.71.1.1" xlink:href="#gridSVG.pch19" x="68.94" y="110.21" width="14.17" height="14.17" transform="translate(-7.09,-7.09)" stroke="rgb(248,118,109)" fill="rgb(248,118,109)" font-size="14.17" stroke-width="0.53" stroke-opacity="1" fill-opacity="1"/>
+                <use id="geom_point.points.71.1.2" xlink:href="#gridSVG.pch19" x="208.95" y="90.5" width="14.17" height="14.17" transform="translate(-7.09,-7.09)" stroke="rgb(248,118,109)" fill="rgb(248,118,109)" font-size="14.17" stroke-width="0.53" stroke-opacity="1" fill-opacity="1"/>
+                <use id="geom_point.points.71.1.3" xlink:href="#gridSVG.pch19" x="270.57" y="89.93" width="14.17" height="14.17" transform="translate(-7.09,-7.09)" stroke="rgb(248,118,109)" fill="rgb(248,118,109)" font-size="14.17" stroke-width="0.53" stroke-opacity="1" fill-opacity="1"/>
+                <use id="geom_point.points.71.1.4" xlink:href="#gridSVG.pch19" x="210.79" y="102.25" width="14.17" height="14.17" transform="translate(-7.09,-7.09)" stroke="rgb(248,118,109)" fill="rgb(248,118,109)" font-size="14.17" stroke-width="0.53" stroke-opacity="1" fill-opacity="1"/>
+                <use id="geom_point.points.71.1.5" xlink:href="#gridSVG.pch19" x="440.21" y="97.37" width="14.17" height="14.17" transform="translate(-7.09,-7.09)" stroke="rgb(248,118,109)" fill="rgb(248,118,109)" font-size="14.17" stroke-width="0.53" stroke-opacity="1" fill-opacity="1"/>
+                <use id="geom_point.points.71.1.6" xlink:href="#gridSVG.pch19" x="325.81" y="110.98" width="14.17" height="14.17" transform="translate(-7.09,-7.09)" stroke="rgb(248,118,109)" fill="rgb(248,118,109)" font-size="14.17" stroke-width="0.53" stroke-opacity="1" fill-opacity="1"/>
+                <use id="geom_point.points.71.1.7" xlink:href="#gridSVG.pch19" x="169.02" y="133.28" width="14.17" height="14.17" transform="translate(-7.09,-7.09)" stroke="rgb(248,118,109)" fill="rgb(248,118,109)" font-size="14.17" stroke-width="0.53" stroke-opacity="1" fill-opacity="1"/>
+                <use id="geom_point.points.71.1.8" xlink:href="#gridSVG.pch19" x="403.39" y="125.47" width="14.17" height="14.17" transform="translate(-7.09,-7.09)" stroke="rgb(248,118,109)" fill="rgb(248,118,109)" font-size="14.17" stroke-width="0.53" stroke-opacity="1" fill-opacity="1"/>
+                <use id="geom_point.points.71.1.9" xlink:href="#gridSVG.pch19" x="380.72" y="141.28" width="14.17" height="14.17" transform="translate(-7.09,-7.09)" stroke="rgb(248,118,109)" fill="rgb(248,118,109)" font-size="14.17" stroke-width="0.53" stroke-opacity="1" fill-opacity="1"/>
+                <use id="geom_point.points.71.1.10" xlink:href="#gridSVG.pch19" x="445.61" y="141.23" width="14.17" height="14.17" transform="translate(-7.09,-7.09)" stroke="rgb(248,118,109)" fill="rgb(248,118,109)" font-size="14.17" stroke-width="0.53" stroke-opacity="1" fill-opacity="1"/>
+                <use id="geom_point.points.71.1.11" xlink:href="#gridSVG.pch19" x="376.79" y="165.54" width="14.17" height="14.17" transform="translate(-7.09,-7.09)" stroke="rgb(0,191,196)" fill="rgb(0,191,196)" font-size="14.17" stroke-width="0.53" stroke-opacity="1" fill-opacity="1"/>
+                <use id="geom_point.points.71.1.12" xlink:href="#gridSVG.pch19" x="309.4" y="190.81" width="14.17" height="14.17" transform="translate(-7.09,-7.09)" stroke="rgb(0,191,196)" fill="rgb(0,191,196)" font-size="14.17" stroke-width="0.53" stroke-opacity="1" fill-opacity="1"/>
+                <use id="geom_point.points.71.1.13" xlink:href="#gridSVG.pch19" x="522.45" y="150.09" width="14.17" height="14.17" transform="translate(-7.09,-7.09)" stroke="rgb(0,191,196)" fill="rgb(0,191,196)" font-size="14.17" stroke-width="0.53" stroke-opacity="1" fill-opacity="1"/>
+                <use id="geom_point.points.71.1.14" xlink:href="#gridSVG.pch19" x="427.22" y="148.12" width="14.17" height="14.17" transform="translate(-7.09,-7.09)" stroke="rgb(0,191,196)" fill="rgb(0,191,196)" font-size="14.17" stroke-width="0.53" stroke-opacity="1" fill-opacity="1"/>
+                <use id="geom_point.points.71.1.15" xlink:href="#gridSVG.pch19" x="487.37" y="196.7" width="14.17" height="14.17" transform="translate(-7.09,-7.09)" stroke="rgb(0,191,196)" fill="rgb(0,191,196)" font-size="14.17" stroke-width="0.53" stroke-opacity="1" fill-opacity="1"/>
+                <use id="geom_point.points.71.1.16" xlink:href="#gridSVG.pch19" x="437.82" y="199.33" width="14.17" height="14.17" transform="translate(-7.09,-7.09)" stroke="rgb(0,191,196)" fill="rgb(0,191,196)" font-size="14.17" stroke-width="0.53" stroke-opacity="1" fill-opacity="1"/>
+                <use id="geom_point.points.71.1.17" xlink:href="#gridSVG.pch19" x="568.11" y="197.56" width="14.17" height="14.17" transform="translate(-7.09,-7.09)" stroke="rgb(0,191,196)" fill="rgb(0,191,196)" font-size="14.17" stroke-width="0.53" stroke-opacity="1" fill-opacity="1"/>
+                <use id="geom_point.points.71.1.18" xlink:href="#gridSVG.pch19" x="573.83" y="198.17" width="14.17" height="14.17" transform="translate(-7.09,-7.09)" stroke="rgb(0,191,196)" fill="rgb(0,191,196)" font-size="14.17" stroke-width="0.53" stroke-opacity="1" fill-opacity="1"/>
+                <use id="geom_point.points.71.1.19" xlink:href="#gridSVG.pch19" x="587.31" y="202.6" width="14.17" height="14.17" transform="translate(-7.09,-7.09)" stroke="rgb(0,191,196)" fill="rgb(0,191,196)" font-size="14.17" stroke-width="0.53" stroke-opacity="1" fill-opacity="1"/>
+                <use id="geom_point.points.71.1.20" xlink:href="#gridSVG.pch19" x="623.2" y="202.2" width="14.17" height="14.17" transform="translate(-7.09,-7.09)" stroke="rgb(0,191,196)" fill="rgb(0,191,196)" font-size="14.17" stroke-width="0.53" stroke-opacity="1" fill-opacity="1"/>
               </g>
             </g>
           </g>
@@ -433,8 +433,8 @@ List of 9
   ..$ xvar: num [1:20] -4.25 1.7 4.32 1.78 11.54 ...
   ..$ yvar: num [1:20] 3.47316 0.00594 -0.09425 2.07281 1.21544 ...
  $ layers     :List of 2
-  ..$ :Classes 'proto', 'environment' <environment: 0x0000000009526f20> 
-  ..$ :Classes 'proto', 'environment' <environment: 0x00000000095f7598> 
+  ..$ :Classes 'proto', 'environment' <environment: 0x0000000008e396b0> 
+  ..$ :Classes 'proto', 'environment' <environment: 0x0000000008f09b30> 
  $ scales     :Reference class 'Scales' [package "ggplot2"] with 1 fields
   ..$ scales: list()
   ..and 21 methods, of which 9 are possibly relevant:
@@ -512,21 +512,42 @@ cat(
  scatterPoints.data(dataToBind) </script>
 
 
-<script>
-scatterPoints  
+
+```r
+cat('<script>\n',
+'scatterPoints  
     .on("mouseover", function(d) {      
       //Create the tooltip label
-      d3.select(this.parentNode).append("rect")
+      d3.select(this.parentNode).append("text")
         .attr("id","tooltip")
         .attr("x",d3.select(this).attr("x"))
-        .attr("y",d3.select(this).attr("y"))
-        .attr("width",10)
-        .attr("height",10)
-        .attr("fill","blue");
-        //.attr("text-anchor", "middle")
-        //.text(d);
+        .attr("y",-d3.select(this).attr("y"))      
+        .attr("dy","0.35em")
+        .attr("transform","scale(1,-1)")
+        .text("x:" + d.value.xvar + " | y:" + d.value.yvar);
     })              
     .on("mouseout", function(d) {       
         d3.select("#tooltip").remove();  
-    });
-</script>
+    });',
+'</script>'
+)
+```
+
+<script>
+ scatterPoints  
+    .on("mouseover", function(d) {      
+      //Create the tooltip label
+      d3.select(this.parentNode).append("text")
+        .attr("id","tooltip")
+        .attr("x",d3.select(this).attr("x"))
+        .attr("y",-d3.select(this).attr("y"))      
+        .attr("dy","0.35em")
+        .attr("transform","scale(1,-1)")
+        .text("x:" + d.value.xvar + " | y:" + d.value.yvar);
+    })              
+    .on("mouseout", function(d) {       
+        d3.select("#tooltip").remove();  
+    }); </script>
+
+
+Not perfect, but I think our progress is admirable. We can save the fancier tooltips and more interactivity for later.
